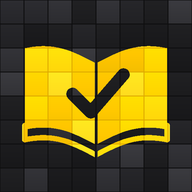
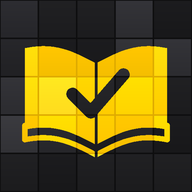
Icône : grille de 5 × 5 carrés, plus proche de TV Time
Claude-Session: https://claude.ai/code/session_01CLPtuKgiyzAtnEJ54nNqzW

diff --git a/sw.js b/sw.js
@@ -3,7 +3,7 @@
 // et si le réseau est absent ou trop lent (> 3 s), on sert la copie gardée en cache.
 // Les appels à api.github.com (synchro) ne sont JAMAIS interceptés.
 
-const CACHE = 'mangatime-v28';
+const CACHE = 'mangatime-v29';
 const FILES = ['./', './index.html', './manifest.json', './icon-192.png', './icon-512.png', './apple-touch-icon.png'];
 
 self.addEventListener('install', e => {
